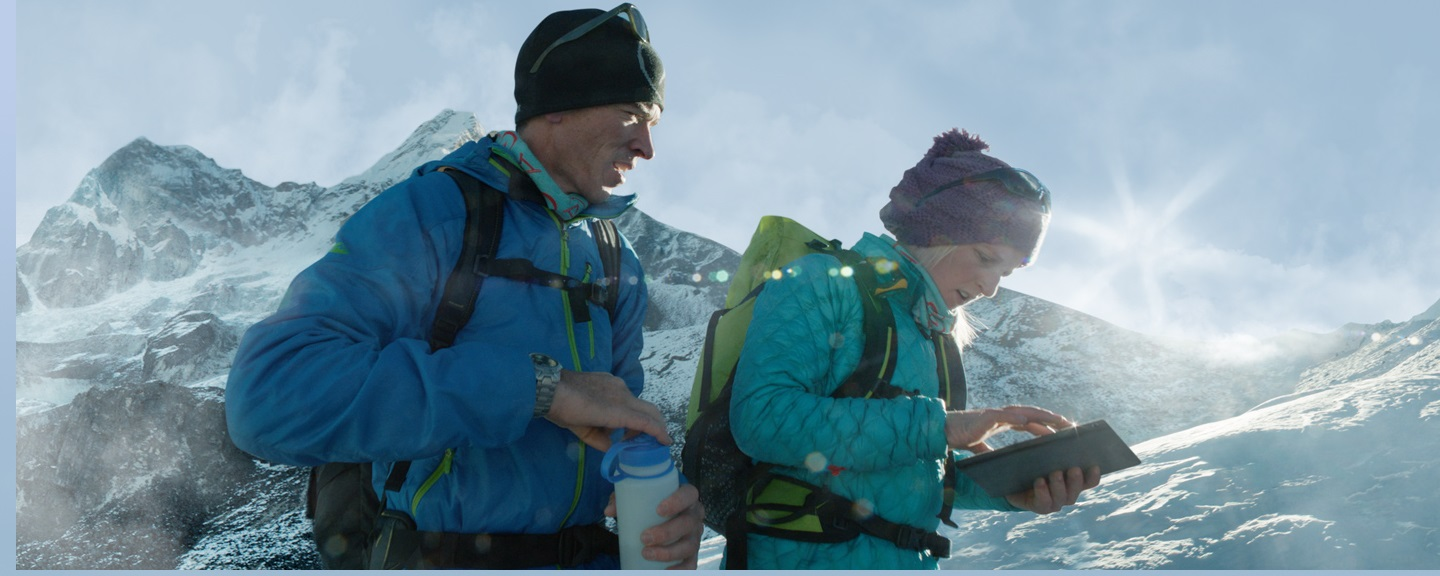
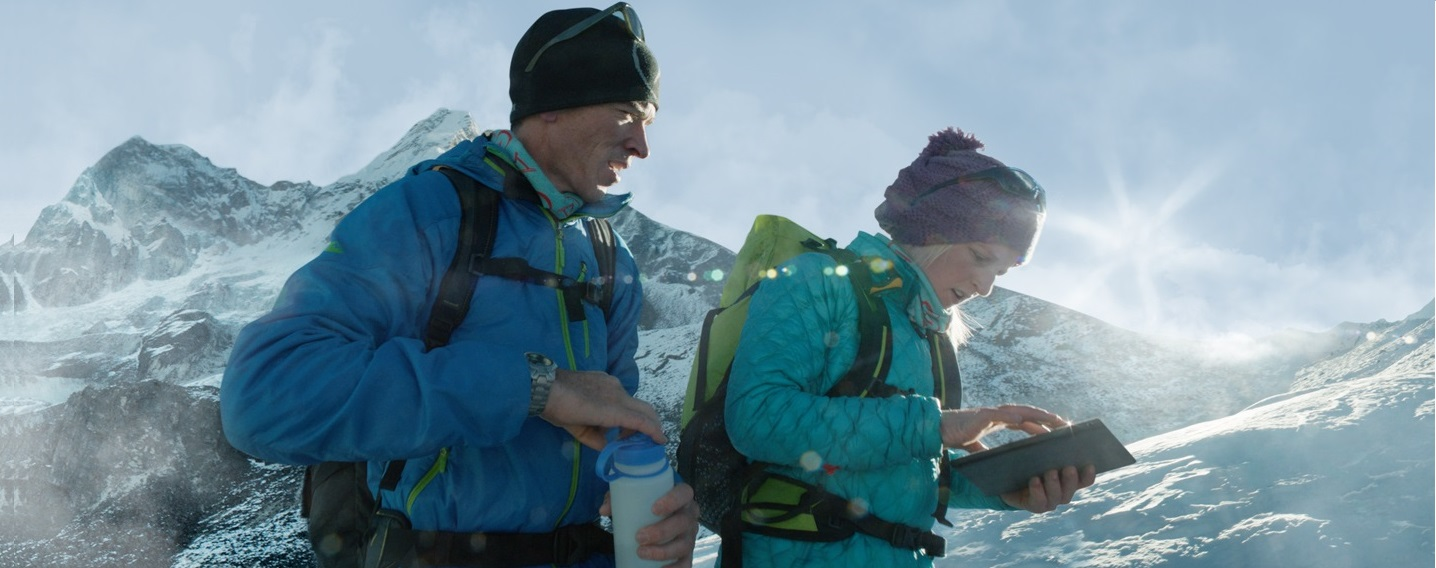
fix navbar width, fix position of background image

diff --git a/CSS/stylesheet.css b/CSS/stylesheet.css
@@ -1,16 +1,18 @@
 body {
   font: 12px/18px "Lucida Grande", "Lucida Sans Unicode", Helvetica, Arial, Verdana, sans-serif;
-}
-
-main{
-  top: 0;
+  top: 0 important!;
+  margin-top: 0 important!;
   background-image: url(../media/background.jpg);
   background-repeat: no-repeat;
   background-size: auto;
   background-position: top;
   background-repeat: no-repeat;
   background-size: cover;
-  height: 600px;
+}
+
+main{
+
+
   padding-top: 8%;
 }
 
@@ -36,13 +38,16 @@ nav > ul {
   align-items: center;
   vertical-align: middle;
   line-height: 50px;
+  width: 100%;
+  padding-left: 0;
+
 }
 
 .nav-li {
   margin-left: 0;
   width: 10%;
   text-align: center;
-  border-left: solid black 1px;
+  border-right: solid black 1px;
   display: inline-block;
   font-size: 14px;
   color: white;
@@ -50,25 +55,36 @@ nav > ul {
 }
 
 .apple-logo-li{
-  font-size: 26px;
+  font-size: 30px;
+  vertical-align: middle;
 }
 
 .search-li{
   display: inline-block;
   position: relative;
-  width:100px;
-
+  width:13%;
+  border-right-style: none;
 }
+
 .fas{
 left: 0;
+}
+
+.search-icon {
+  position: absolute;
+  top: 35%;
+  left: 10%;
+  border-left: none;
+  color: white;
 }
 
 .search-input{
   width: 100%;
   margin: auto;
   background-color: #666;
-  border-radius:10px;
-  padding:0.4% 0  0 0 ;
+  border-radius:30px;
+  height: 50%;
+  border: solid black 1px;
 }
 
 .text-photos-container {
@@ -97,25 +113,24 @@ left: 0;
   background-color: #333;
 }
 
-.search-icon {
-  position: absolute;
-  top: 30%;
-  left: 30%;
-  border-left: none;
-  color: white;
-}
 
 .grid-images{
+  width: 100%;
+  margin-top: 8%;
+  margin-right: 0;
   display: grid;
   border: solid 1px white;
-  grid-template-columns: repeat(4, 2fr);
+  border-right-style: none;
+  grid-template-columns: repeat(4, 25%);
   grid-gap: 0.1em;
 }
+
 .grid-row-images>img{
   width:100%;
 }
 footer{
   font-size: 10px;
+  background-color: white;
 }
 footer a{
   text-decoration: none;
@@ -129,14 +144,14 @@ footer a:hover{
 
   justify-content: space-between ;
   width:100%;
-  
+
 }
 
 .list-para{
   text-align:center;
   padding-left: 3em;
 
-  
+
   justify-content: center;
 }
 

diff --git a/index.html b/index.html
@@ -21,15 +21,13 @@
             <li class="nav-li">iPad</li>
             <li class="nav-li">iTunes</li>
             <li class="nav-li">Support</li>
-            <li class="nav-li search-li"><input class="search-input"><i class="fas fa-search search-icon"></i></li>
+            <li class="nav-li search-li"><i class="search-icon fas fa-search"></i><input class="search-input"></li>
             </ul>
         </nav>
       </header>
       <section class="text-photos-container">
       <img class="title-img" src="./media/text-1.png" alt="title"">
       <img class="text-image-2" src="./media/text-2.png" alt="text-2">
-      <br>
-      <br>
       <img class="text-image-3" src="./media/text-3.png" alt="text-3">
       </section>
     </main>
@@ -43,7 +41,7 @@
       <div class="list">
                 <p class="list-para">Shop the <a href="">Apple Online Store</a> (1-800-MY-APPLE),
                    visit an <a href="">Apple Retail Store</a>, or find a <a href="">reseller</a>.</p>
-                
+
                   <ul class="footer-links">
                     <li><a href="">Site Map</a> | </li>
                     <li><a href="">Hot News</a> | </li>
@@ -55,10 +53,10 @@
                     <li><img src="./media/us.png" alt="us"></li>
                   </ul>
          </div>
-        
-            <p class="last-para">Copyright © 2014 Apple Inc. All rights reserved. 
+
+            <p class="last-para">Copyright © 2014 Apple Inc. All rights reserved.
               <a href="">Terms of Use</a> | <a href="">Privacy Policy</a></p>
-          
+
     </footer>
 
   </body>
